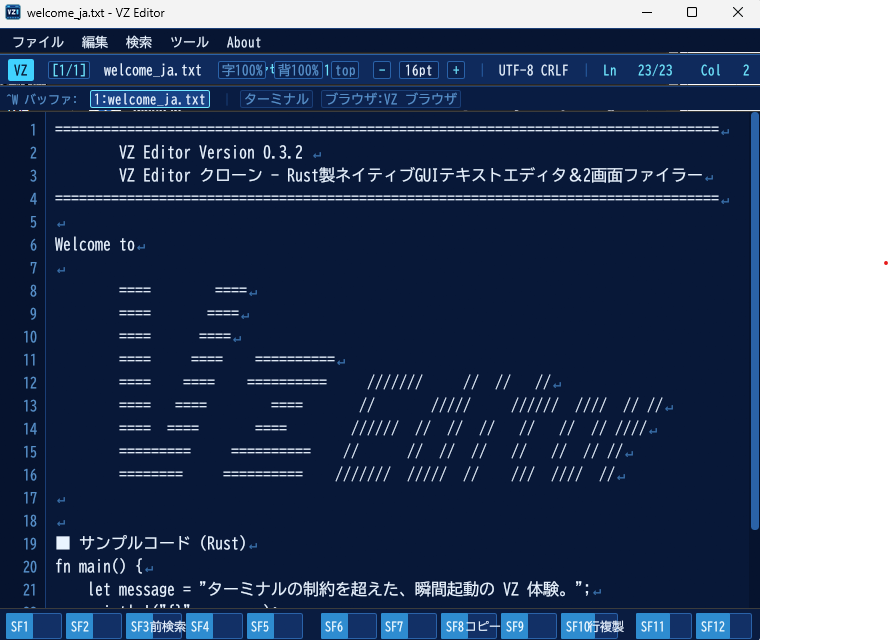
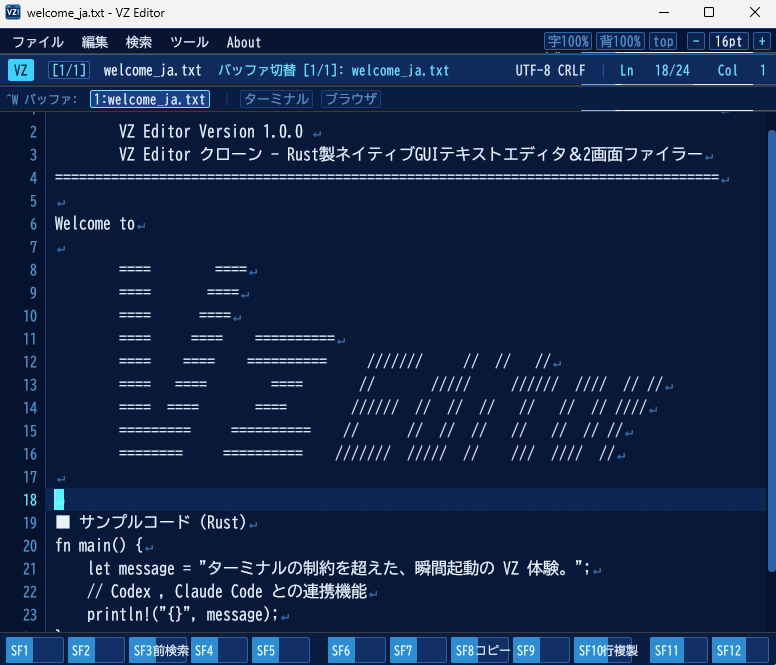
README.md 更新、メニュー位置修正

diff --git a/crates/vz-ui/src/app/menu.rs b/crates/vz-ui/src/app/menu.rs
@@ -382,29 +382,6 @@ impl VzEditorApp {
                     ],
                 },
                 MenuEntry::Separator,
-                MenuEntry::Submenu {
-                    label: "フォント",
-                    items: vec![
-                        MenuEntry::Item {
-                            label: "サイズ拡大",
-                            shortcut: "Ctrl++",
-                            action: MenuAction::FontZoomIn,
-                            enabled: self.font_size < MAX_FONT_SIZE,
-                        },
-                        MenuEntry::Item {
-                            label: "サイズ縮小",
-                            shortcut: "Ctrl+-",
-                            action: MenuAction::FontZoomOut,
-                            enabled: self.font_size > MIN_FONT_SIZE,
-                        },
-                        MenuEntry::Item {
-                            label: "サイズリセット (16pt)",
-                            shortcut: "Ctrl+0",
-                            action: MenuAction::FontReset,
-                            enabled: true,
-                        },
-                    ],
-                },
                 MenuEntry::Item {
                     label: if self.word_wrap {
                         "折り返し表示を解除"
@@ -492,6 +469,29 @@ impl VzEditorApp {
                             shortcut: "Alt+Shift+0",
                             action: MenuAction::TextOpacityReset,
                             enabled: self.text_opacity < window_style::MAX_OPACITY,
+                        },
+                    ],
+                },
+                MenuEntry::Submenu {
+                    label: "フォント",
+                    items: vec![
+                        MenuEntry::Item {
+                            label: "サイズ拡大",
+                            shortcut: "Ctrl++",
+                            action: MenuAction::FontZoomIn,
+                            enabled: self.font_size < MAX_FONT_SIZE,
+                        },
+                        MenuEntry::Item {
+                            label: "サイズ縮小",
+                            shortcut: "Ctrl+-",
+                            action: MenuAction::FontZoomOut,
+                            enabled: self.font_size > MIN_FONT_SIZE,
+                        },
+                        MenuEntry::Item {
+                            label: "サイズリセット (16pt)",
+                            shortcut: "Ctrl+0",
+                            action: MenuAction::FontReset,
+                            enabled: true,
                         },
                     ],
                 },

diff --git a/crates/vz-ui/src/app/tests.rs b/crates/vz-ui/src/app/tests.rs
@@ -1037,9 +1037,9 @@ fn test_tools_submenu_keyboard() {
         labels,
         [
             "ブラウザ",
-            "フォント",
             "背景透過",
             "文字透過",
+            "フォント",
             "他アプリ連携"
         ]
     );
@@ -1055,6 +1055,14 @@ fn test_tools_submenu_keyboard() {
             )
         })
         .unwrap();
+
+    assert!(matches!(
+        entries.get(font_idx.wrapping_sub(1)),
+        Some(MenuEntry::Submenu {
+            label: "文字透過",
+            ..
+        })
+    ));
 
     // フォントへ移動し → で開く。← で閉じ、Enter で開き直す
     app.open_top_menu(TopMenu::Tools);

diff --git a/README.md b/README.md
@@ -1,26 +1,35 @@
 # VZ Editor
 
-VZEditor was originally forked from [LZ Editor](https://github.com/TouryuTamane/lz-editor) developed by Touryu Tamane.
-
-VZEditor has since evolved into an independent project with its own architecture, features, and development roadmap.
-
-本プロジェクトは、Touryu Tamane氏が開発したLZ Editorを起源としています。
-現在は独自の設計、機能、開発方針を持つ独立したプロジェクトとして開発を進めています。
-具体的にはClaudeCodeとCodex、GithubDesktop などと連携する機能など。
-
-We thank the original author and contributors for their work.
+VZ Editor は、テキスト編集とファイル管理を一つのウィンドウで行える、Rust 製の GUI エディターです。Touryu Tamane 氏が Linux 向けに開発した [LZ Editor](https://github.com/TouryuTamane/lz-editor) をもとに、Windows 11・Linux・macOS で使えるエディターとして開発しています。
 
 ![VZ Editor の画面](docs/screenshots/editor.png)
 
-## 開発方針
+## LZ Editor から受け継いだ基本機能
 
-- 高速起動・軽量動作、GPU（OpenGL）による描画
-- VZ Editor のキー操作の継承と、サクラエディタ互換のキー割り当ての両立
-- Windows 11 / Linux / macOS のクロスプラットフォーム対応
-- ウィンドウの最前面固定・背景透過など、作業の横に置いて使うための機能
-- 前回のモニター・位置・サイズで起動（モニターを外した場合は主モニターに表示）
-- 大規模ファイルへの対応
-- 印刷機能
+| 機能 | できること |
+| :--- | :--- |
+| テキスト編集 | ファイルを開いて編集・保存できます。切り取り・コピー・貼り付けや、編集の取り消し・やり直しにも対応します。 |
+| VZ 風の画面とキー操作 | 濃紺の画面に行番号やファンクションキーのガイドを表示します。VZ 互換では `Ctrl+E/S/D/X` でカーソルを上・左・右・下に移動できます。 |
+| 2画面ファイラー | `Esc` で編集画面とファイラーを切り替えます。左右に別々のフォルダを開き、`Space` でファイルをマークして、反対側へコピー・移動できます。名前の変更や削除、フォルダの作成、並べ替えもできます。 |
+| 複数ファイルの編集 | ファイルごとに編集内容・カーソル位置・スクロール位置を保持します。画面上のタブから別のファイルへ切り替えられます。 |
+| Markdown ビュー | `Alt+P` で編集とプレビューを切り替え、見出し・表・リスト・コードブロックなどの表示を確認できます。 |
+| 日本語入力と文字サイズ | システムの日本語フォントを使い、IME で日本語を入力できます。`Ctrl++` / `Ctrl+-` で表示サイズを変え、`Ctrl+0` で元のサイズに戻せます。 |
+
+初めて使う場合は、`F1` で操作一覧を開けます。既定のキー割り当てはサクラ互換で、「ツール」メニューから VZ 互換に切り替えられます。現在の操作は [キー割り当て](#キー割り当て) を参照してください。
+
+## VZ Editor で追加した機能
+
+| 機能 | できること |
+| :--- | :--- |
+| 編集画面とキー操作 | サクラ互換のキー割り当てを選べます。長い行の折り返し、同じファイルの別の位置を見ながら編集できる上下分割、自動インデント、選択行のインデントに対応します。 |
+| 検索・置換・Grep | 編集中のファイルを検索・置換できます。Grep ではフォルダ内の複数ファイルを検索し、結果から該当行を開けます。検索語や置換文字列は履歴から呼び出せます。[検索の操作](#検索置換grep行ジャンプ) |
+| 画面の透過と最前面固定 | ウィンドウを最前面に固定し、背景と文字の濃さを個別に調整できます。前回のモニター・位置・サイズも記憶します。 |
+| 複数ファイルを開く・履歴 | ドラッグ＆ドロップやファイル選択で一度に開けます。タブの並べ替えや別ウィンドウへの移動にも対応し、「ファイル」メニューから最近使ったファイル・フォルダや、ファイラーから起動したファイルを呼び出せます。 |
+| 状態の記録と復元 | `Alt+Shift+F4` で閉じるときに作業状態を記録します。次回、`Shift` を押しながら起動すると、開いていたファイルや未保存の編集を復元できます。 |
+| 文字コードと巨大ファイル | UTF-8・UTF-8 BOM・Shift_JIS（CP932）を判定して開き、保存時に文字コードを指定できます。128 MB 以上のファイルも巨大ファイルモードで開いて編集できます。[文字コードと巨大ファイル](#文字コードと巨大ファイル) |
+| 印刷 | 編集中の内容を A4 で印刷できます。Markdown ビューでは見出しや表の書式も印刷に反映します。[印刷の設定](#印刷) |
+| ターミナルと簡易ブラウザ | エディター内でコマンドを実行し、Windows・macOS では保存済みの HTML・SVG やローカルサーバーのページを表示できます。[ターミナルと簡易ブラウザ](#ターミナルと簡易ブラウザ) |
+| 他アプリ連携 | 編集中の内容を Claude Code / Codex のデスクトップアプリに送り、連携メニューから新規セッションの開始や GitHub Desktop の Push を操作できます。 |
 
 ## 開発状況
 
@@ -34,14 +43,11 @@ We thank the original author and contributors for their work.
 
 ## フォーク元との関係
 
-- このリポジトリ（[sekiya-sato/vzeditor](https://github.com/sekiya-sato/vzeditor)）は [TouryuTamane/lz-editor](https://github.com/TouryuTamane/lz-editor) のフォークです。フォーク元のコミット `adab5d2` までの履歴を含み、それ以降の変更がこのリポジトリ独自のものです。
-- フォーク後に追加・変更した機能は、Windows 11 の実機と WSL2 の Linux で動作確認しています。macOS は GitHub Actions でのビルド・テスト・起動の確認のみで、実機の画面操作は未確認です。
-- 実行ファイル名は `lz` から `vz` に、パッケージ名は `vzeditor` に変えています。原作と同時にインストールしても衝突しません。
-- デザインはvzeditorを踏襲します。ただしうろ覚えなので違うところもあるかもしれません。
-- 不具合報告や要望は、原作由来の部分も含めてこのリポジトリの Issue へお願いします。
+- フォーク元のコミット `adab5d2` までの履歴を引き継いでいます。
+- 実行ファイル名は `vz`、パッケージ名は `vzeditor` です。LZ Editor と同時にインストールできます。
+- 不具合報告や要望は [VZ Editor の Issues](https://github.com/sekiya-sato/vzeditor/issues) へお願いします。
 
-
-## 追加機能
+## 追加機能の使い方
 
 | キー | 機能 |
 | :--- | :--- |
@@ -67,7 +73,7 @@ We thank the original author and contributors for their work.
 | `Enter` / `Shift+Enter`（エディター） | 改行して前の行の行頭の空白（タブ・半角スペース）を引き継ぐ（自動インデント） / 引き継がずに行頭から始める |
 | `Shift+Enter`（2画面ファイラー） | カーソル位置のファイルを OS の関連付けで実行する |
 
-メニューバー右端の `TOP`・`背 n%`・`字 n%`、メニュー「ツール」の「背景透過」「文字透過」からも操作できます。背景と文字の濃さは別々に変えられます。設定は次回起動時に復元されます。
+メニューバー右端の `TOP`・`背 n%`・`字 n%`、メニュー「ツール」の「背景透過」「文字透過」からも操作できます。背景と文字の濃さは別々に変えられます。「文字透過」のすぐ下にある「フォント」から、文字サイズを拡大・縮小・リセットできます。透過の設定は次回起動時に復元されます。
 
 複数ファイルは、ウィンドウへのドラッグ＆ドロップ、`vz a.txt b.md` のような起動引数、メニュー「ファイル」→「ファイルを開く...」（サクラ互換は `Ctrl+O` も。複数選択可）、2画面ファイラーで Space マーク → Enter のいずれでもまとめて開けます。
 
@@ -151,7 +157,7 @@ Windows・macOS・Linux X11 では、ファイルタブを別の VZ ウィンド
 | Ctrl | `CF3` 検索ハイライト切替、`CF4` 閉じる | `CF3` 検索ハイライト切替、`CF4` 閉じる、`CF11` は空欄、ほかは F キーと同じ |
 | Alt | `AF4` 終了 | `AF3` 空欄、`AF4` 終了、`AF11` は空欄、ほかは F キーと同じ |
 
-エディターの `F4` 単独は両方式で空欄です。2画面ファイラーの F キー欄は `AF4`（終了）を除き、修飾キーを押しても通常の割り当てを表示します。
+エディターの `F4` 単独は両方式で上下分割・分割解除です。2画面ファイラーの F キー欄は `AF4`（終了）を除き、修飾キーを押しても通常の割り当てを表示します。
 
 | 操作 | サクラ互換（既定） | VZ 互換（原作） |
 | :--- | :--- | :--- |
